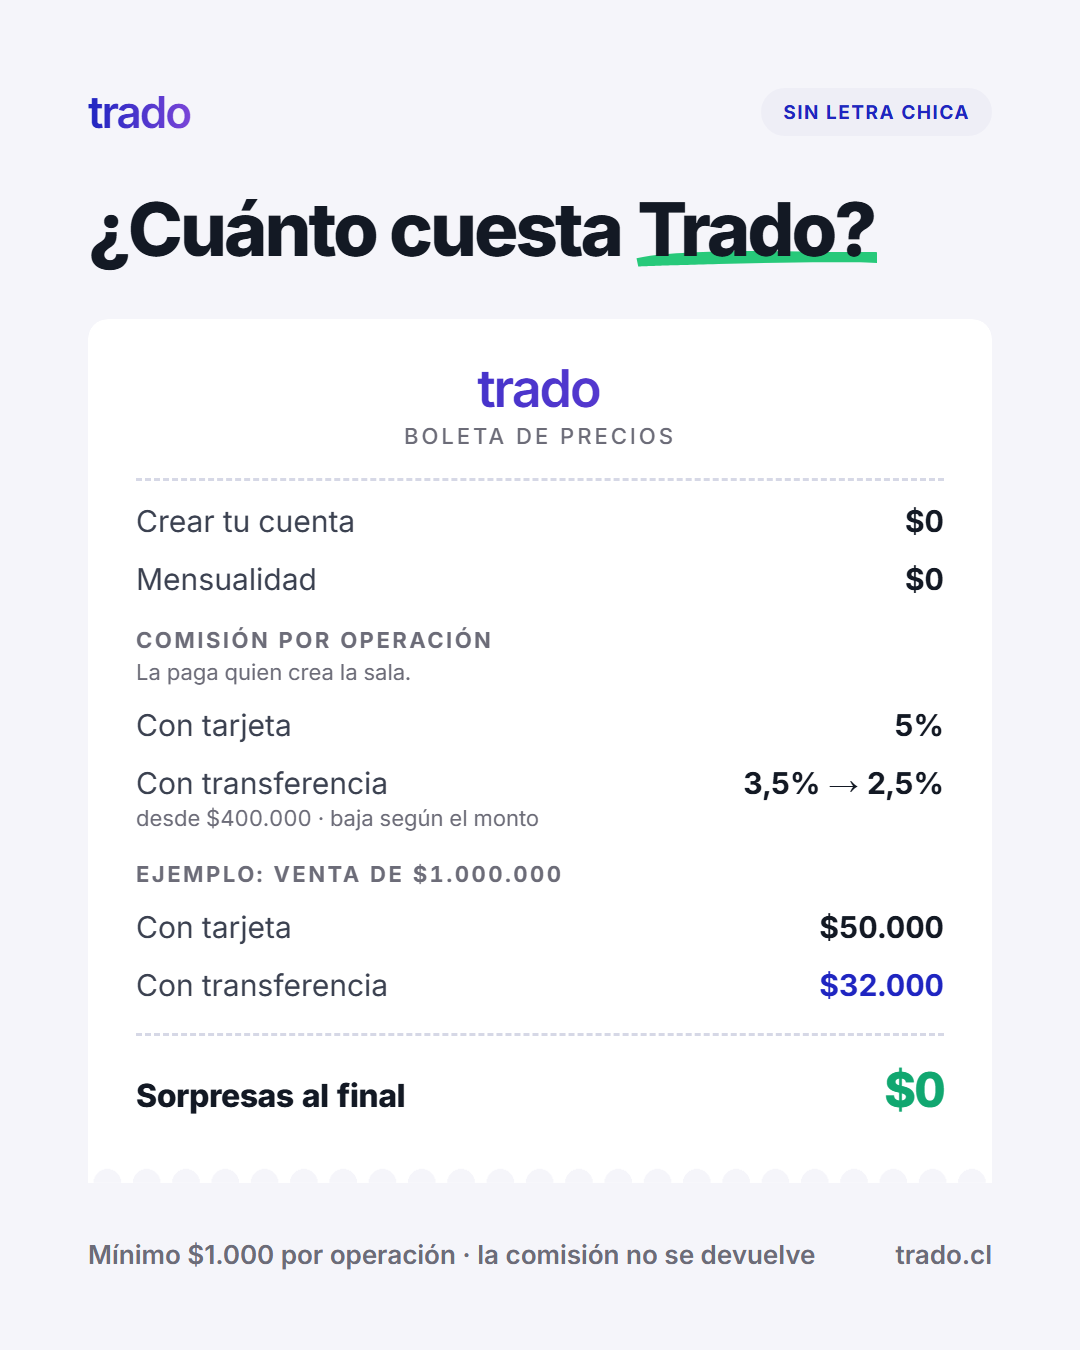
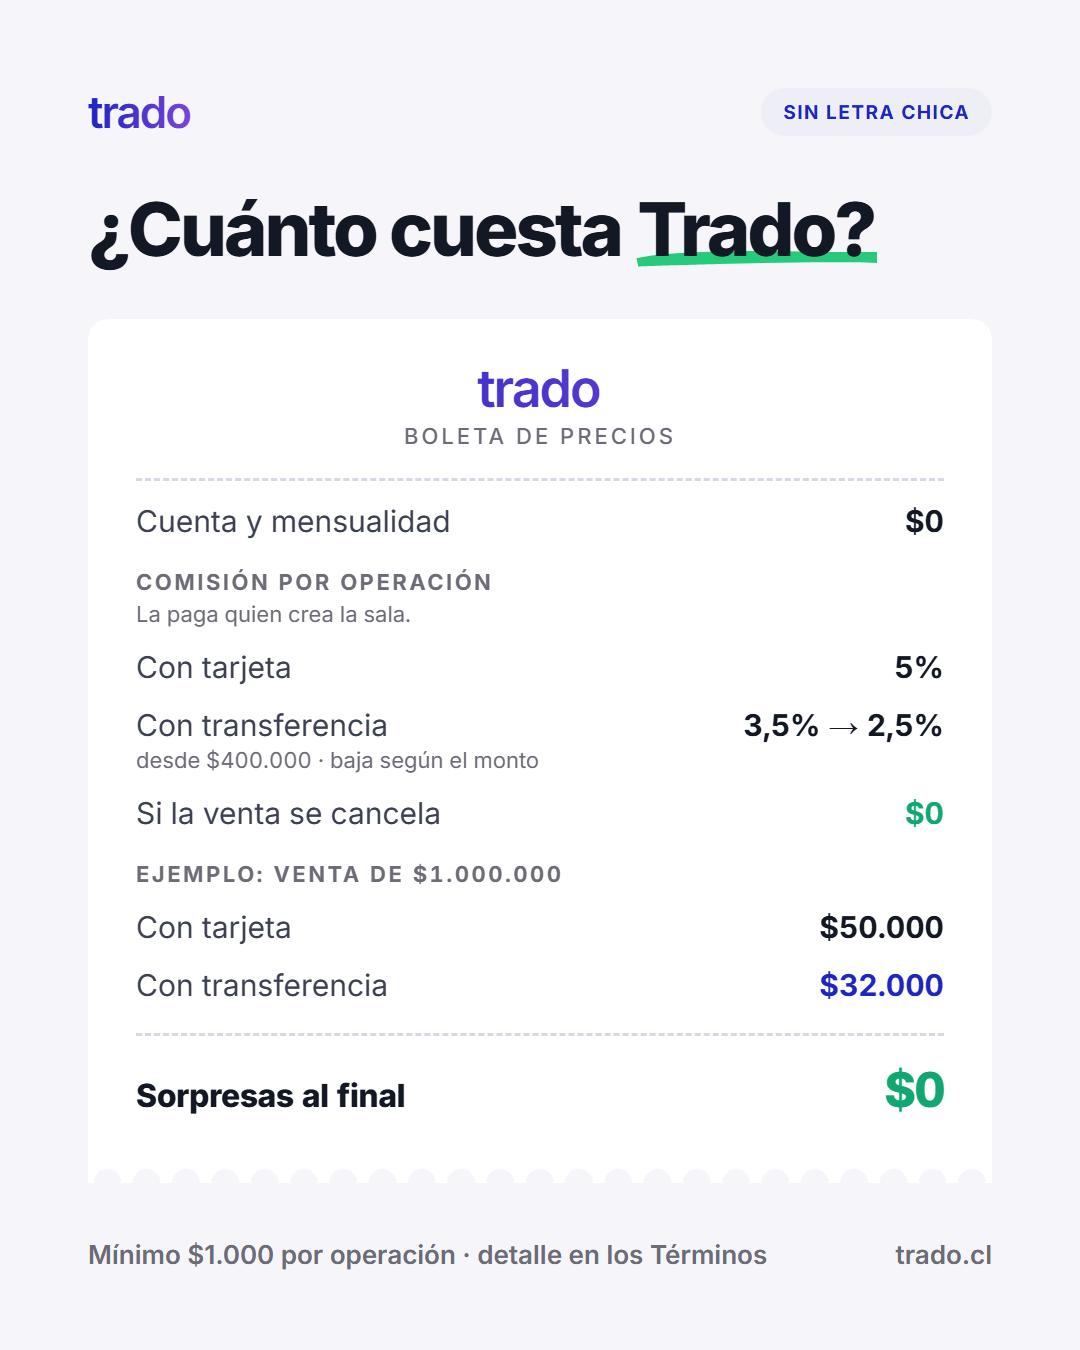
Instagram: post 6 y destacada Precios sin 'la comisión no se devuelve'
Desde el 2026-09-27 la comisión no se cobra si la venta se cancela o la disputa
se resuelve a favor del comprador, así que la frase dejó de ser cierta. La
boleta suma 'Si la venta se cancela · $0', el caption explica qué pasa si la
venta se cae (y que con tarjeta vuelve a la tarjeta), y la lámina 3 de la
destacada Precios cambia su nota. Cifras re-verificadas con calculateFee.
Vistas del perfil regeneradas.

diff --git a/Instagram/_sistema/feed/06-cuanto-cuesta/slide-1.html b/Instagram/_sistema/feed/06-cuanto-cuesta/slide-1.html
@@ -1,7 +1,9 @@
 <!doctype html>
 <html lang="es"><head><meta charset="utf-8"><link rel="stylesheet" href="../../base.css">
-<!-- Cifras verificadas con calculateFee (src/lib/utils.ts) el 2026-09-21:
-     $1.000.000 → transferencia $32.000 · tarjeta $50.000. Transferencia desde $400.000 (Wallet.tsx). -->
+<!-- Cifras verificadas con calculateFee (src/lib/utils.ts) el 2026-09-27:
+     $1.000.000 → transferencia $32.000 · tarjeta $50.000. Transferencia desde $400.000
+     (OFFER_TRANSFER_AT en src/lib/trado-bank.ts). Venta cancelada o disputa ganada por el
+     comprador: sin comisión (Términos 3.3). Ya NO dice "la comisión no se devuelve". -->
 <style>
   .boleta {
     position: relative; margin-top: 52px; background: #fff; color: var(--texto);
@@ -30,13 +32,13 @@
   <div class="boleta">
     <div class="b-cab"><div class="logo">trado</div><div class="chico">Boleta de precios</div></div>
 
-    <div class="linea"><span>Crear tu cuenta</span><b>$0</b></div>
-    <div class="linea"><span>Mensualidad</span><b>$0</b></div>
+    <div class="linea"><span>Cuenta y mensualidad</span><b>$0</b></div>
 
     <div class="seccion">Comisión por operación</div>
     <div class="nota" style="margin-top:6px">La paga quien crea la sala.</div>
     <div class="linea"><span>Con tarjeta</span><b>5%</b></div>
     <div class="linea"><span>Con transferencia<div class="nota">desde $400.000 · baja según el monto</div></span><b>3,5% → 2,5%</b></div>
+    <div class="linea"><span>Si la venta se cancela</span><b style="color:var(--verde)">$0</b></div>
 
     <div class="seccion">Ejemplo: venta de $1.000.000</div>
     <div class="linea"><span>Con tarjeta</span><b>$50.000</b></div>
@@ -46,5 +48,5 @@
   </div>
 
   <div class="relleno"></div>
-  <div class="pie"><span>Mínimo $1.000 por operación · la comisión no se devuelve</span><span>trado.cl</span></div>
+  <div class="pie"><span>Mínimo $1.000 por operación · detalle en los Términos</span><span>trado.cl</span></div>
 </div></body></html>

diff --git a/Instagram/_sistema/destacadas/2-precios/slide-03.html b/Instagram/_sistema/destacadas/2-precios/slide-03.html
@@ -28,7 +28,7 @@
     <div class="t-fila"><span class="m">$400.000</span><span class="v">$20.000</span><span class="v trans">$14.000</span></div>
     <div class="t-fila"><span class="m">$1.000.000</span><span class="v">$50.000</span><span class="v trans">$32.000</span></div>
   </div>
-  <p class="chico" style="margin-top:28px;color:var(--gris)">Transferencia desde $400.000. Sobre $1.150.000 es la única vía. La comisión no se devuelve.</p>
+  <p class="chico" style="margin-top:28px;color:var(--gris)">Transferencia desde $400.000. Sobre $1.150.000 es la única vía. Si la venta se cancela, no pagas comisión.</p>
 
   <div class="relleno"></div>
   <div class="cta" style="background:var(--indigo);color:#fff;padding:34px 44px">
